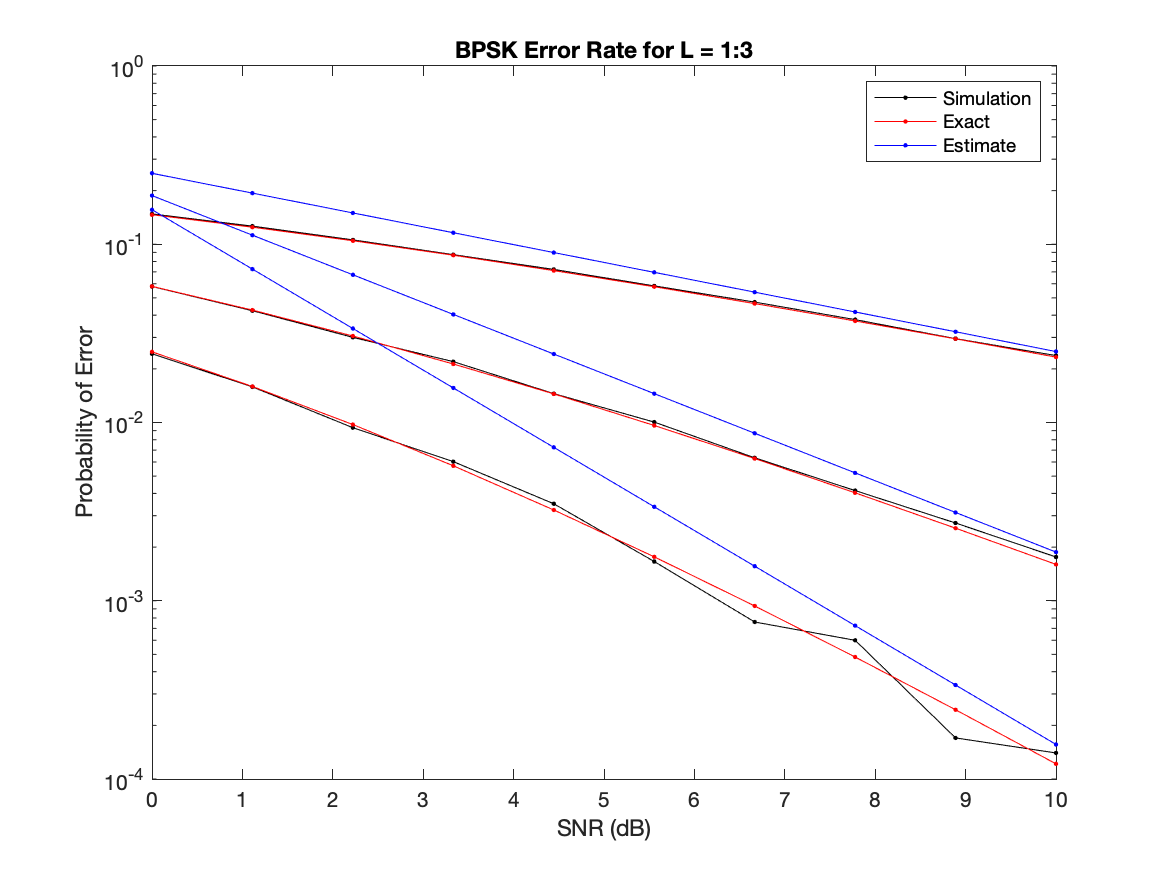
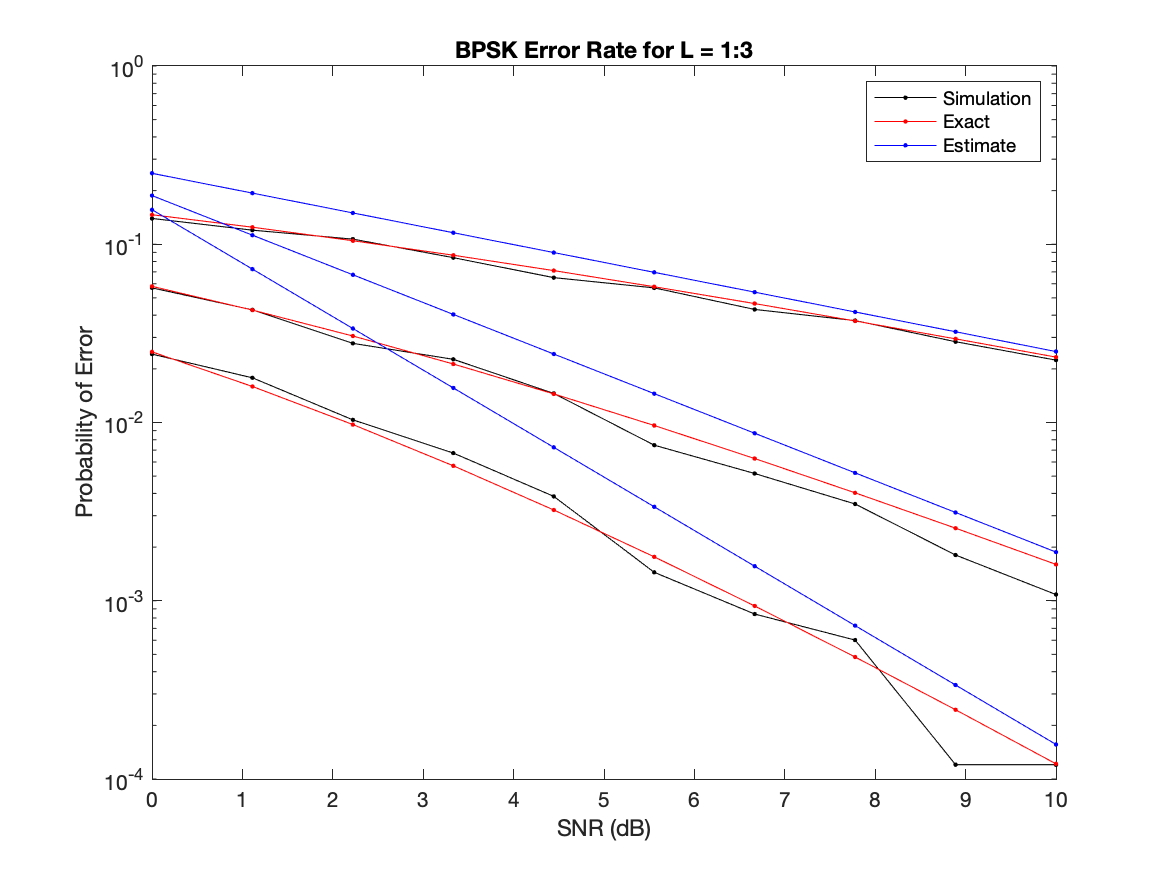
Working on part C

diff --git a/miniProject02/jsullivan_ec508_mp2.m b/miniProject02/jsullivan_ec508_mp2.m
@@ -6,7 +6,7 @@ clc; close all; clear all;
 SNRdb   = linspace(0,10, 10);
 SNR     = 10.^(SNRdb/10); L = 1:4;
 L       = 1:3; 
-N       = 100000; 
+N       = 1000; 
 err     = zeros(length(L), length(SNR), N); 
 errSum  =  zeros(length(L), length(SNR)); 
 
@@ -39,8 +39,33 @@ end
     legend('Simulation', 'Exact', 'Estimate'); 
     xlabel('SNR (dB)'); ylabel('Probability of Error'); 
     title('BPSK Error Rate for L = 1:3'); 
-    
     print('partB', '-dpng'); 
+    
+    %% Part C:
+    clearvars -except P; 
+    SNRdb   = 0;
+    SNR     = 10.^(SNRdb/10); 
+    L       = 1:3; 
+    N       = 100; 
+    M       = 20; 
+    err     = zeros(length(L), length(SNR), N, M); 
+    figure;
+for m= 1:M
+    errSum  =  zeros(length(L), length(SNR)); 
+    for i = 1:N
+        err(:,:, i, m) = calcErr_Hest(SNR, L, m) ;
+    end
+    errSum(:, :, m) = mean(err(:,:,:,m), 3);
+end
+for iL = 1:length(L)
+   semilogy(m, (errSum(iL, 1, :)), '.'); hold on; 
+   semilogy([1, 20], [(P(iL, 1)), (P(iL, 1))]  , '.-r'); 
+end
+    legend('Simulation', 'Exact', 'Estimate'); 
+    xlabel('SNR (dB)'); ylabel('Probability of Error'); 
+    title('BPSK Error Rate for L = 1:3'); 
+    print('partB', '-dpng'); 
+    
 %% Supporting functions
 
 function err = calcErr(SNR, L) 
@@ -52,23 +77,65 @@ for iL = 1:length(L)
         w   = 1/sqrt(2) * randn(L(iL),1) + 1i/sqrt(2) * randn(L(iL),1); 
         a   = (2*randi([0 1]) - 1);       % Produces +/-
         x   = sqrt(SNR(iSNR))*a;          % Scale the symbol by SNR   --> This could be vectorized
-        y   = h * x  + w;              % Scale by the channel effects and add the random noise
-%         yh  = ((y.*hh)); 
-%         yhn = sum(yh); % This seems wrong
-%         if      yhn >= 0;    xh = 1; 
-%         elseif  yhn <  0;    xh = -1; 
-%         else;               warning('bad'); 
-%         end        
+        y   = h * x  + w;                 % Scale by the channel effects and add the random noise
+%{
+         yh  = ((y.*hh)); 
+         yhn = sum(yh); % This seems wrong
+         if      yhn >= 0;    xh = 1; 
+         elseif  yhn <  0;    xh = -1; 
+         else;               warning('bad'); 
+         end  
+%}
         if norm(y - h*sqrt(SNR)) <= norm(y + h*sqrt(SNR)) 
             xh = 1; 
         elseif norm(y - h*sqrt(SNR)) >= norm(y + h*sqrt(SNR))
-            xh = -1; 
-            
-        else; warning("You're dumb"); end
+            xh = -1;       
+        else; warning("You're dumb"); 
+        end % Perform ML Assignment
+        
         err(iL, iSNR) = ~isequal(xh, a);
     end
 end
 end
+
+function err = calcErr_Hest(SNR, L, M) 
+err = zeros(length(L), length(SNR)); 
+for iL = 1:length(L)
+    h   = 1/sqrt(2) * randn(L(iL),1) + 1i/sqrt(2) * randn(L(iL),1); 
+    hh  = conj(h)./(abs(h));
+    for iSNR = 1:length(SNR)
+        
+        % "Preamble / Pilot"
+        A = sqrt(SNR(iSNR))/(1 + M * SNR(iSNR)); 
+        clear B
+        for m = 1:M
+            w    = 1/sqrt(2) * randn(L(iL),1) + 1i/sqrt(2) * randn(L(iL),1); 
+            B(:, m) = h.*sqrt(SNR(iSNR)) + w;
+        end
+        hg = A.*sum(B,2);
+        
+        w   = 1/sqrt(2) * randn(L(iL),1) + 1i/sqrt(2) * randn(L(iL),1); 
+        a   = (2*randi([0 1]) - 1);       % Produces +/-
+        x   = sqrt(SNR(iSNR))*a;          % Scale the symbol by SNR   --> This could be vectorized
+        % Jesse thinks I did this wrong --> Mc - Mtrain at once;
+        
+        y   = h * x  + w;                 % Scale by the channel effects and add the random noise
+
+        % Now we use the "guess"
+        if norm(y - hg*sqrt(SNR)) <= norm(y + hg*sqrt(SNR)) 
+            xh = 1; 
+        elseif norm(y - hg*sqrt(SNR)) >= norm(y + hg*sqrt(SNR))
+            xh = -1;       
+        else; warning("You're dumb"); 
+        end % Perform ML Assignment
+        
+        err(iL, iSNR) = ~isequal(xh, a);
+    end
+end
+end
+
+
+
 
 
 
